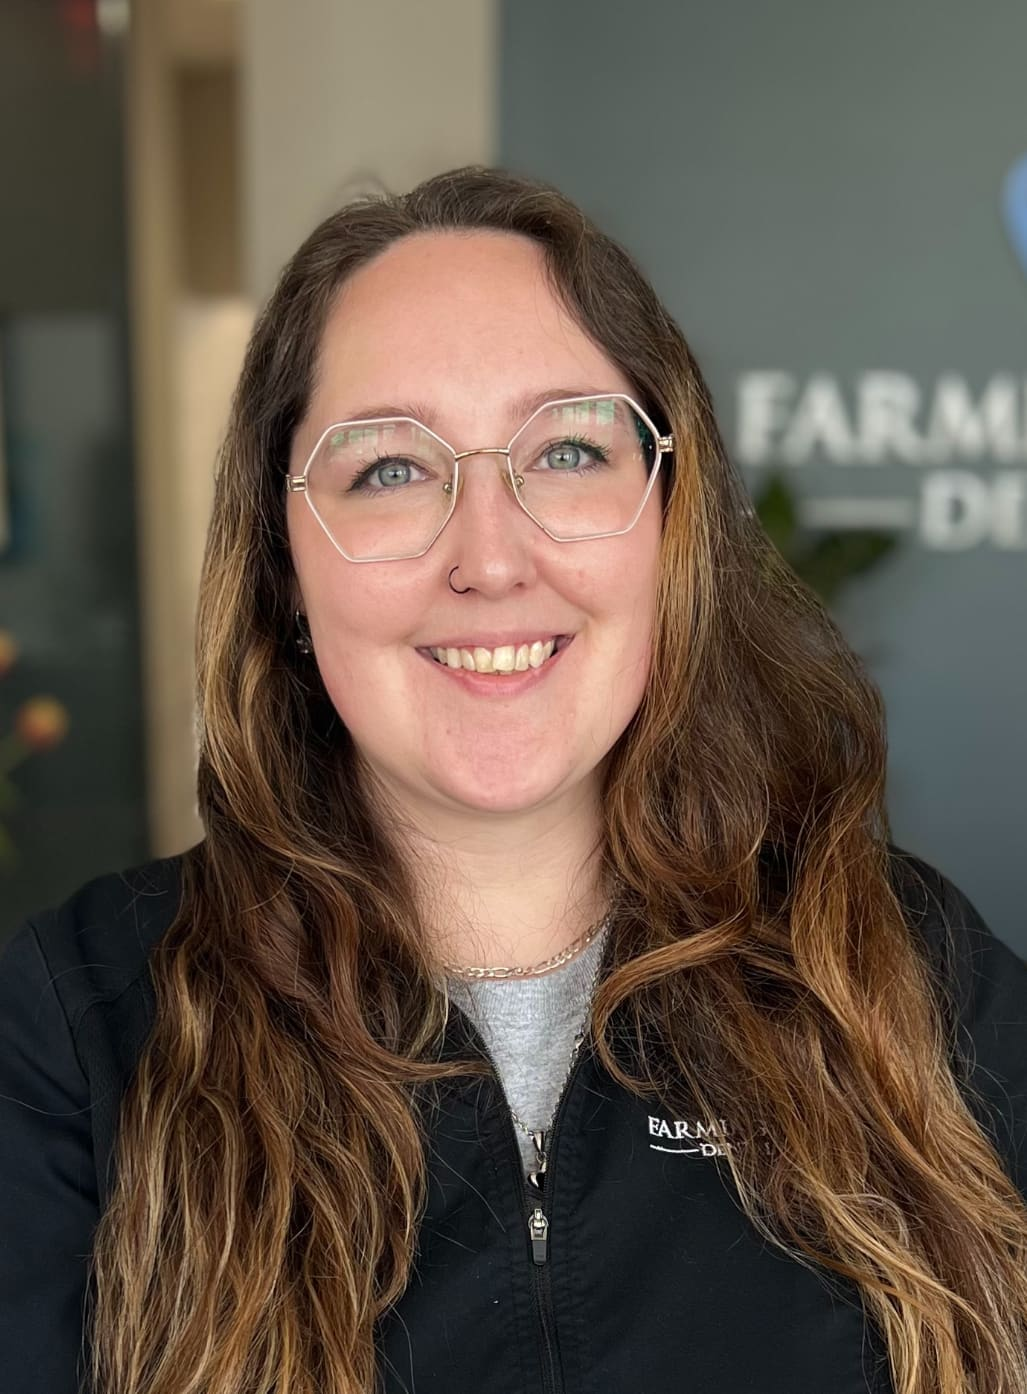
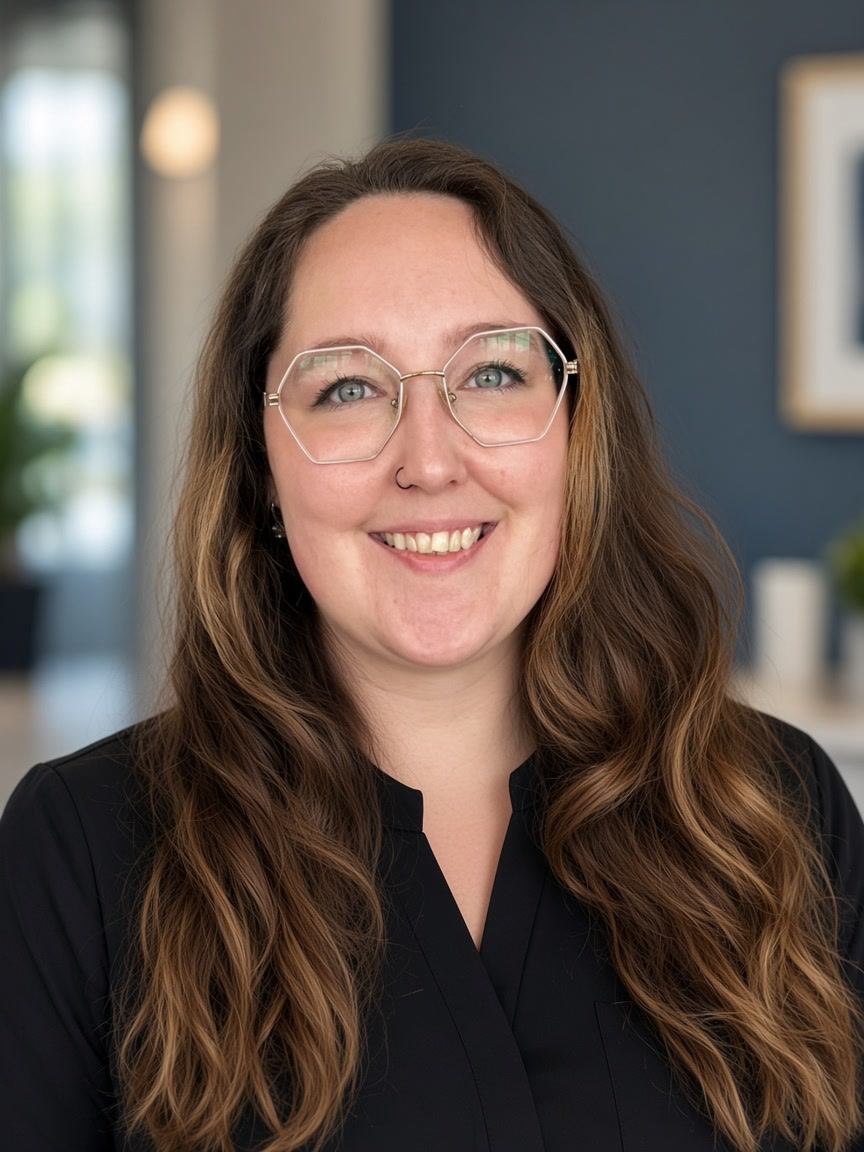
feat: remap Team and About to identity-preserving staff stills
Grok Imagine retextures the published Farmington portraits — Dr. Sturn,
hygienists, and Abby — so the client sees familiar faces. Source
headshots are kept under public/brand/source. Editorial service plates,
nav gutters, and hash scroll stay as locked.

diff --git a/docs/design-meeting.md b/docs/design-meeting.md
@@ -72,3 +72,6 @@ Question: ceremonial entry for a single-location dental Path A.
 The hero still is the same Grok operatory-dawn plate so the fade stays one world (the old blue blur is retired as the hero plate).  
 Nav gutters, measured hash scroll, and ad-grade section/service plates stay in scope.  
 Grok Imagine stills produced for the vote; the assembled MP4 is retired so Farmington does not ship a BRA-shaped video entry.
+
+## Identity lock — DEFAULT (2026-09-18)
+Published Farmington staff portraits are the only clinician faces. Grok Imagine retextures those exact people into Team / About (and any plate that needs a clinician). No invented doctor faces when a source portrait exists. Editorial service plates stay as-is.
